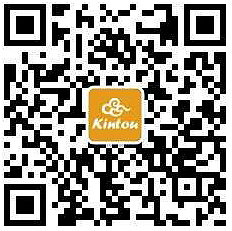
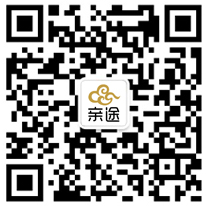
更换二维码

diff --git a/themes/qintu/index/goods_qdz_list.html b/themes/qintu/index/goods_qdz_list.html
@@ -19,7 +19,7 @@ $url_base_search=url('goods/lists?category='.'qdz_area_all|qdz_tese_all'.$url_so
 </style>
 <img class="img-responsive" src="{:config('theme_path')}/index/images/banner_qdz.jpg?ver={:__VERSION__}">
 <a name="pos"></a>
-<div class="row section-bg-white section no-padding" <!--style="margin-top:-60px"-->>
+<div class="row section-bg-white section no-padding">
 	<div class="col-md-2 col-md-offset-8">
 		 <div class="input-group">
                         <!--<input type="text" class="form-control search-input" id="test_data" onkeydown="javascript:if(event.keyCode==13) search('test_data');" value="{$search}" placeholder="输入要搜索的内容关键字">-->

diff --git a/themes/qintu/index/page_qtlp_hsps.html b/themes/qintu/index/page_qtlp_hsps.html
@@ -64,7 +64,7 @@
 			</div>
 			{/volist}
 		</div>
-		<p class="text-center" style="margin-top: 20px"><button id="notice_btn" type="button" class="btn btn-circle btn-gray" style="width: 150px;">婚纱拍摄套餐</button></p>
+		<p class="text-center" style="margin-top: 20px"><button id="notice_btn" type="button" class="btn btn-circle btn-gray" style="width: 150px;">旅行跟拍套餐</button></p>
 		<div id="notice_content" style="display:none;padding: 0 50px;">{$post['content']}</div>
 	</div>
 </div>

diff --git a/themes/qintu/index/page_qtlp_lxgp.html b/themes/qintu/index/page_qtlp_lxgp.html
@@ -64,7 +64,7 @@
 			</div>
 			{/volist}
 		</div>
-		<p class="text-center" style="margin-top: 20px"><button id="notice_btn" type="button" class="btn btn-circle btn-gray" style="width: 150px;">旅行跟拍套餐</button></p>
+		<p class="text-center" style="margin-top: 20px"><button id="notice_btn" type="button" class="btn btn-circle btn-gray" style="width: 150px;">婚纱拍摄套餐</button></p>
 		<div id="notice_content" style="display:none;padding: 0 50px;">{$post['content']}</div>
 	</div>
 </div>

diff --git a/initialize.php b/initialize.php
@@ -9,7 +9,7 @@
 
 // 版本定义
 //const MINISHOP_VERSION = '1.0.0_dev';
- define('__VERSION__','1.0.2.1');
+ define('__VERSION__','1.0.2.2');
 
 /**
  * 系统初始化文件
